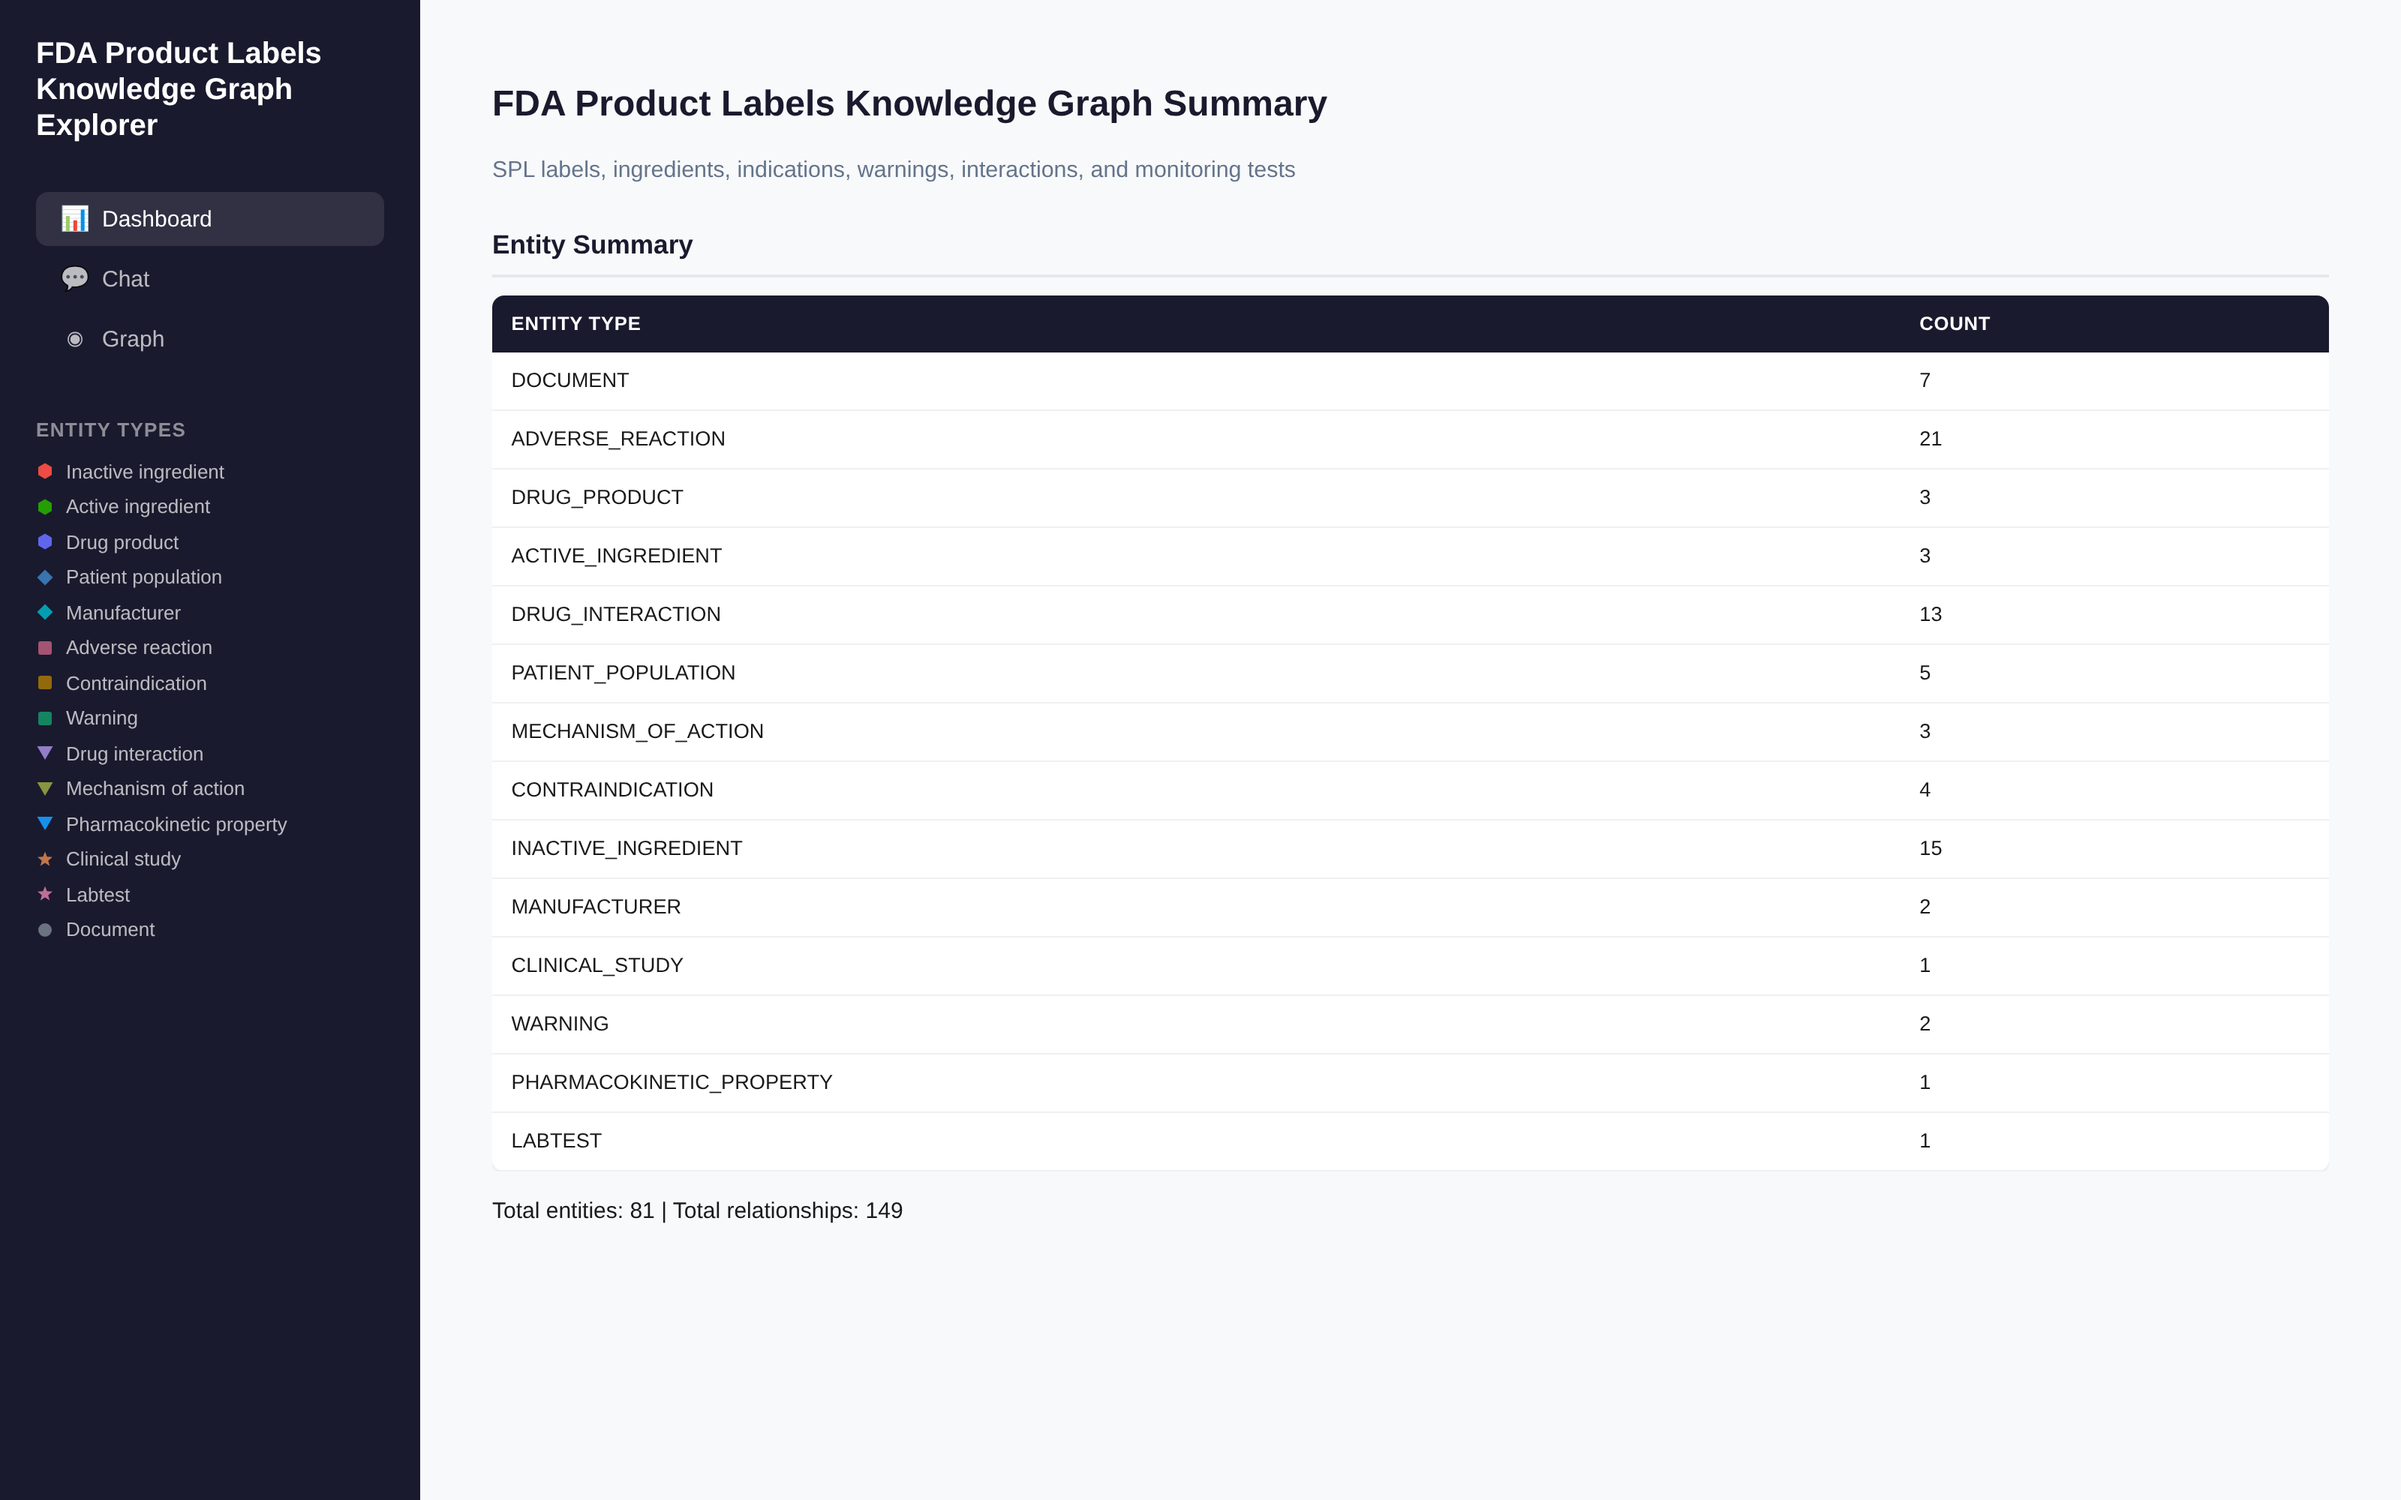
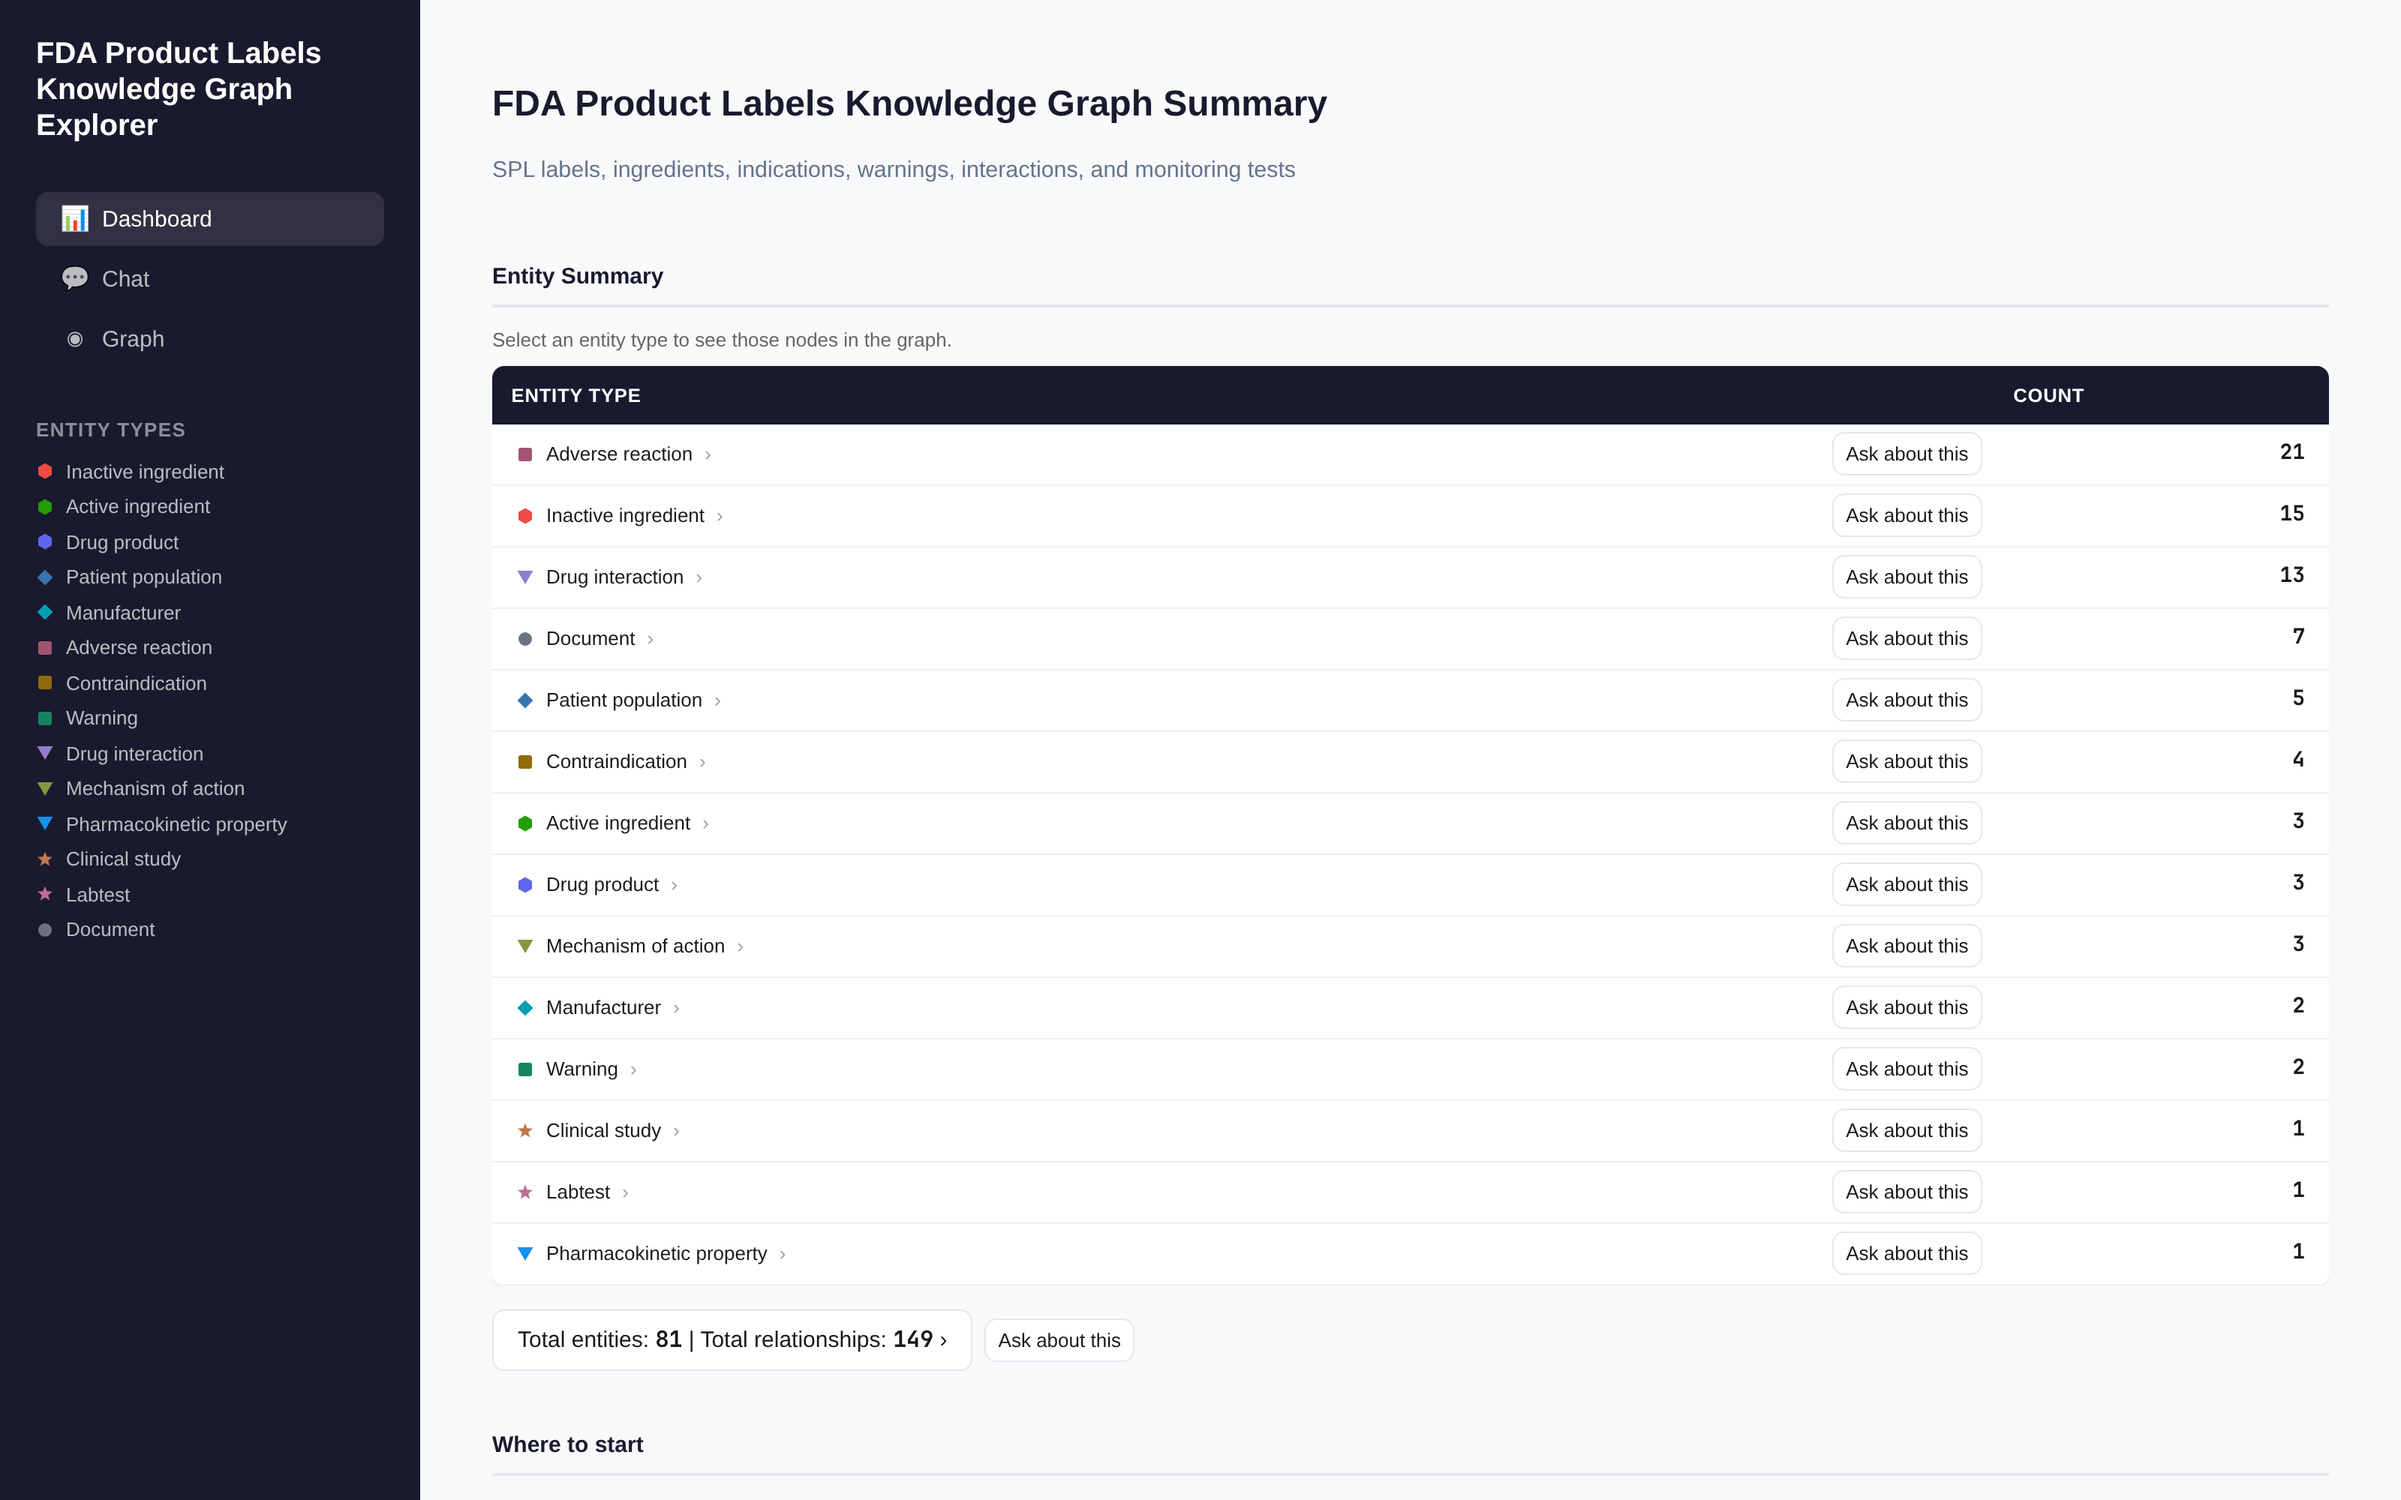
docs(screenshots): refresh dashboard and graph images for Where to start and Ask about this
Re-captured with scripts/capture_workbench_screenshots.py (1600x1000 @2x)
for the workbench (GLP-1 v3), clinicaltrials and fda-labels sets:
- *-01-dashboard.png: entity summary now shows the Ask about this
  buttons and the start of the Where to start section
- *-03-graph*.png: toolbar now includes the Present button

Chat images are unchanged: the UI is the same, and re-capturing without
an LLM key would drop the model picker and the streamed answer.

WORKBENCH.md: dashboard caption describes Where to start and Ask about
this; graph caption mentions Present.

diff --git a/docs/WORKBENCH.md b/docs/WORKBENCH.md
@@ -54,7 +54,7 @@ uv pip install -r pyproject.toml --extra workbench
 
 ![Workbench Dashboard — drug-discovery summary](screenshots/workbench-01-dashboard.png)
 
-Auto-generated entity summary for the loaded graph — entity types with deduplicated counts, totals at the bottom, top communities. Domains can ship a custom `dashboard.html` under `domains/<name>/workbench/` for richer layouts; otherwise `/api/dashboard` builds the summary from `graph_data.json`.
+Auto-generated entity summary for the loaded graph — entity types with deduplicated counts and totals; select a type to see those nodes in the graph. Below it, **Where to start** lists the topic communities (with member counts and top members) and the 10 most-connected entities; selecting one opens the graph zoomed to that community or focused on that entity. Further down are epistemic health cards, the documents table and analysis findings. Every card has an **Ask about this** button that opens Chat with a ready-made question (for example *"Summarize the Systemic Hypertension community."*) in the input box; nothing is sent until you press Send. Domains can ship a custom `dashboard.html` under `domains/<name>/workbench/` for richer layouts; otherwise `/api/dashboard` builds the summary from `graph_data.json`.
 
 ### Chat — domain-aware analyst
 
@@ -66,7 +66,7 @@ The chat panel reads its title, body text, placeholder, starter questions, and s
 
 ![Workbench Graph Panel — S6 GLP-1](screenshots/workbench-03-graph-glp1.png)
 
-Full knowledge graph rendered in the workbench: nodes colored and shaped per entity type from the domain's `domain.yaml` `display` hints, with source documents hidden until "Show sources" is pressed, hover cards on nodes and edges, an edge key with one color per relation category, "Group by" (Topic cluster by default, Entity family, or None), focus mode (double-click a node, or use the sidebar button, to see its 1- or 2-hop neighborhood; Esc exits), and a search bar for direct entity lookup. Above the graph sit entity-type and epistemic-status filter pills, a confidence threshold slider, a relation-type filter, a minimum-connections slider, and Fit View / Reset Pins buttons. Pan, zoom, click any node to see neighborhood context; toggle entity types and the other filters to isolate sub-graphs.
+Full knowledge graph rendered in the workbench: nodes colored and shaped per entity type from the domain's `domain.yaml` `display` hints, with source documents hidden until "Show sources" is pressed, hover cards on nodes and edges, an edge key with one color per relation category, "Group by" (Topic cluster by default, Entity family, or None), focus mode (double-click a node, or use the sidebar button, to see its 1- or 2-hop neighborhood; Esc exits), and a search bar for direct entity lookup. Above the graph sit entity-type and epistemic-status filter pills, a confidence threshold slider, a relation-type filter, a minimum-connections slider, and Fit View / Reset Pins / Present buttons (Present, or the P key, enlarges labels, nodes and lines for projectors and collapses the sidebar). Pan, zoom, click any node to see neighborhood context; toggle entity types and the other filters to isolate sub-graphs.
 
 ### Chat — epistemic layer in action
 
